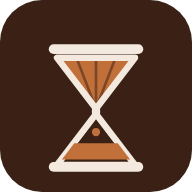
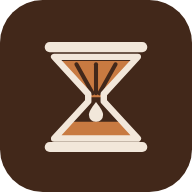
雫を作り直し、ロゴとアイコンを描き直し、ホームの帯を組み替える (#15)
雫
・尾を引く本物の形をベジエでなぞり、下ほど濃い縦のグラデーションと
  小さな照りを入れた。落下の筋は引かない
・1粒を大きくし、数を半分に。注ぎ口は1点に絞った。1粒ぶんの水位の
  上がりは2pxほどで、水面のうねりより小さいので跳ねては見えない

アイコン
・砂時計の輪郭の上半分をリブつきのドリッパー、下半分を溜まった
  コーヒーにし、くびれの下を一滴が落ちる形に描き直した
・元絵を icons/icon.svg として残す。マスクされる端末で欠けないよう、
  絵は内側9割に収めてある

ロゴ
・下の波をやめ、o の場所にコーヒー豆をひと粒はめた。溝は背景の色で彫る
・マージ番号をロゴの右下へ
・ロゴを画面の上へ寄せ、あいさつ・帯・見出しの間も詰めた

ホームの帯
・左は今日の杯数
・右は枠2つぶんを使って、ひと月ぶんの1日あたりの杯数の折れ線。線は
  1本きりなので凡例は置かず、数字は合計ひとつだけ。指でなぞると
  その日の日付と杯数が出る

Claude-Session: https://claude.ai/code/session_01AK1g5wZPx5s5VDHrQyhsVT

diff --git a/app.js b/app.js
@@ -19,11 +19,11 @@
  *   8. 起動
  * ==================================================================== */
 
-const APP_VERSION = "2.3.0";
+const APP_VERSION = "2.4.0";
 
 /* ホームのロゴの下に #002 の形で出す、mainへマージした回数。
    マージのたびに1つ増やす（この見た目になるまでに何回積んだか） */
-const MERGE_COUNT = 14;
+const MERGE_COUNT = 15;
 
 /* ------------------------------------------------------------------ *
  * 1. 下ごしらえ
@@ -725,7 +725,7 @@ function renderHome() {
     hour < 17 ? "Zeit für eine Pause." :
                 "Wie brühst du heute?";
 
-  renderStats($("home-stats"), liveBrews());
+  renderHomeStats($("home-stats"), liveBrews());
 
   const list = liveRecipes();
   const box = $("home-recipes");
@@ -772,6 +772,118 @@ function recipeCard(recipe, withEdit) {
   go.innerHTML = '<svg width="15" height="15" viewBox="0 0 24 24" fill="currentColor"><path d="M8 5v14l11-7z"/></svg>';
   card.appendChild(go);
   card.addEventListener("click", () => openTimer(recipe));
+  return card;
+}
+
+/* ---------- ホームの帯 ---------- *
+ *  左は今日の杯数。右は枠2つぶんを使って、ひと月ぶんの1日あたりの
+ *  杯数を折れ線で出す。線は1本きりなので凡例は要らない（何の線かは
+ *  カードの見出しが言っている）。点ごとに数を書くと読まれないので、
+ *  数字は見出しの合計ひとつだけにして、日ごとの数は指でなぞったとき
+ *  に出す。目盛りは0の一本だけ、細く、背景に沈めておく
+ * ------------------------------------------------------------------ */
+const TREND_DAYS = 30;
+const SPARK_H = 34;              // 折れ線の高さ（px）
+const SPARK_VB = 10;             // 折れ線のviewBoxの高さ
+const SPARK_PAD = 0.7;           // 上下の余白（viewBox単位）
+
+function renderHomeStats(box, list) {
+  box.innerHTML = "";
+  const midnight = new Date();
+  midnight.setHours(0, 0, 0, 0);
+
+  const today = list.filter((b) => b.brewedAt >= midnight.getTime()).length;
+  const left = el("div", "stat");
+  const n = el("div", "stat-num");
+  n.textContent = String(today);
+  n.appendChild(el("span", "small", today === 1 ? "cup" : "cups"));
+  left.appendChild(n);
+  left.appendChild(el("div", "stat-label", "brewed today"));
+  box.appendChild(left);
+
+  box.appendChild(monthTrend(list, midnight));
+}
+
+function monthTrend(list, midnight) {
+  const DAY = 86400000;
+  const counts = new Array(TREND_DAYS).fill(0);
+  const dayOf = (ms) => {
+    const d = new Date(ms);
+    d.setHours(0, 0, 0, 0);
+    /* 夏時間で1日が23時間や25時間になる国があるので、丸めて日数にする */
+    return Math.round((d.getTime() - midnight.getTime()) / DAY);
+  };
+  for (const b of list) {
+    const i = TREND_DAYS - 1 + dayOf(b.brewedAt);
+    if (i >= 0 && i < TREND_DAYS) counts[i]++;
+  }
+  const total = counts.reduce((a, c) => a + c, 0);
+  const peak = Math.max(1, ...counts);
+  const dateAt = (i) => new Date(midnight.getTime() - (TREND_DAYS - 1 - i) * DAY);
+
+  const card = el("div", "stat wide");
+  const head = el("div", "stat-head");
+  const n = el("div", "stat-num");
+  n.textContent = String(total);
+  n.appendChild(el("span", "small", total === 1 ? "cup" : "cups"));
+  head.appendChild(n);
+  const label = el("div", "stat-label", "last 30 days");
+  head.appendChild(label);
+  card.appendChild(head);
+
+  const yOf = (c) => SPARK_VB - SPARK_PAD - (c / peak) * (SPARK_VB - SPARK_PAD * 2);
+  const zero = yOf(0);
+  const pts = counts.map((c, i) => `${i} ${yOf(c).toFixed(2)}`);
+  const line = "M" + pts.join(" L");
+
+  const spark = el("div", "spark");
+  spark.innerHTML =
+    `<svg viewBox="0 0 ${TREND_DAYS - 1} ${SPARK_VB}" preserveAspectRatio="none" role="img"` +
+    ` aria-label="Cups brewed per day over the last 30 days. ${total} in total,` +
+    ` at most ${peak} in a day.">` +
+    `<path class="spark-area" d="${line} L${TREND_DAYS - 1} ${zero} L0 ${zero} Z"/>` +
+    `<line class="spark-zero" x1="0" y1="${zero}" x2="${TREND_DAYS - 1}" y2="${zero}"/>` +
+    `<path class="spark-line" d="${line}"/>` +
+    `</svg><span class="spark-dot"></span><span class="spark-cross" hidden></span>`;
+  const dot = spark.querySelector(".spark-dot");
+  const cross = spark.querySelector(".spark-cross");
+  const yPx = (i) => SPARK_H - yOf(counts[i]) * (SPARK_H / SPARK_VB);
+  const xPct = (i) => (i / (TREND_DAYS - 1)) * 100;
+  const place = (i) => {
+    dot.style.left = `calc(${xPct(i).toFixed(2)}% - 4px)`;
+    dot.style.bottom = `${yPx(i).toFixed(1)}px`;
+  };
+  place(TREND_DAYS - 1);
+  card.appendChild(spark);
+
+  /* なぞっているあいだ、その日の数を見出しの側に出す */
+  const at = (clientX) => {
+    const r = spark.getBoundingClientRect();
+    if (!r.width) return;
+    const t = Math.min(1, Math.max(0, (clientX - r.left) / r.width));
+    const i = Math.round(t * (TREND_DAYS - 1));
+    label.textContent = `${fmtDate(dateAt(i).getTime())} · ${plural(counts[i], "cup")}`;
+    label.classList.add("live");
+    place(i);
+    cross.hidden = false;
+    cross.style.left = `calc(${xPct(i).toFixed(2)}% - 0.5px)`;
+  };
+  const off = () => {
+    label.textContent = "last 30 days";
+    label.classList.remove("live");
+    place(TREND_DAYS - 1);
+    cross.hidden = true;
+  };
+  spark.addEventListener("pointerdown", (e) => {
+    spark.setPointerCapture(e.pointerId);
+    at(e.clientX);
+  });
+  spark.addEventListener("pointermove", (e) => {
+    if (e.pressure > 0 || e.pointerType === "mouse") at(e.clientX);
+  });
+  spark.addEventListener("pointerup", off);
+  spark.addEventListener("pointercancel", off);
+  spark.addEventListener("pointerleave", off);
   return card;
 }
 
@@ -906,11 +1018,11 @@ const brew = {
 const LEVEL_MAX = 0.92;        // 最後は画面の上のほうまで満ちる
 const DRIP_TAU = 13;           // 溜めた湯が落ちきるまでの目安（秒）。投の
                                //   頭はよく落ち、次の投までにはほぼ止まる
-const DROP_Q = 0.0012;         // 雫1つが上げる高さ。雫の見た目の面積を
-                               //   画面幅で割った値にほぼ等しく、水面が
-                               //   雫の体積ぶんだけ上がるようにしてある
+const DROP_Q = 0.0025;         // 雫1つが上げる高さ。1粒ぶんの上がり幅は
+                               //   2px ほどで、水面のうねりより小さい。
+                               //   ここを詰めすぎると数が増えて汚くなる
 const DROP_G = 1500;           // 雫の落下（px/s²）
-const DROP_MAX = 24;           // 同時に落ちる雫の数
+const DROP_MAX = 14;           // 同時に落ちる雫の数
 const BLOOM_HOLD = 4200;       // 1投目は粉が吸うぶん、落ち始めるまで間がある
 
 function splashPour() { /* 雫は溜まったぶんから自然に落ちる。合図は要らない */ }
@@ -938,6 +1050,31 @@ function surfaceAt(x, base, t, now) {
     y += Math.sin((d - front) / 22) * 7 * env;
   }
   return y;
+}
+
+/* 1粒の雫。下がふくらみ、上へ細く尾を引く本物の形をなぞる。
+   単色で塗ると染みになるので、下ほど濃い縦のグラデーションにし、
+   左上に小さな照りを置いて、水の玉らしく見せる */
+function drawDroplet(ctx, x, y, r, tail, accent) {
+  const top = y - r * tail;
+  ctx.beginPath();
+  ctx.moveTo(x, top);
+  ctx.bezierCurveTo(x - r * 0.26, top + r * tail * 0.5, x - r, y - r * 0.8, x - r, y);
+  ctx.arc(x, y, r, Math.PI, 0, true);          // ふくらんだ下半分
+  ctx.bezierCurveTo(x + r, y - r * 0.8, x + r * 0.26, top + r * tail * 0.5, x, top);
+  ctx.closePath();
+
+  const g = ctx.createLinearGradient(0, top, 0, y + r);
+  g.addColorStop(0, cssRgba(accent, 0.045));
+  g.addColorStop(0.5, cssRgba(accent, 0.15));
+  g.addColorStop(1, cssRgba(accent, 0.3));
+  ctx.fillStyle = g;
+  ctx.fill();
+
+  ctx.fillStyle = "rgba(255,255,255,0.6)";
+  ctx.beginPath();
+  ctx.ellipse(x - r * 0.33, y - r * 0.28, r * 0.19, r * 0.28, -0.5, 0, TAU);
+  ctx.fill();
 }
 
 function drawBrewBackground(now) {
@@ -986,10 +1123,11 @@ function drawBrewBackground(now) {
       brew.acc -= DROP_Q;
       brew.pending -= q;
       brew.drops.push({
-        x: w * 0.5 + (Math.random() - 0.5) * 26,
-        y: -16 - Math.random() * 44,
-        v: 40 + Math.random() * 60,
-        r: 5.6 + Math.random() * 2.6,
+        /* 注ぎ口は1点。ばらけさせると、垂れるというより降ってくる */
+        x: w * 0.5 + (Math.random() - 0.5) * 9,
+        y: -18 - Math.random() * 30,
+        v: 30 + Math.random() * 40,
+        r: 7.5 + Math.random() * 2,
         q,
       });
     }
@@ -1048,18 +1186,8 @@ function drawBrewBackground(now) {
       d.done = true;
       continue;
     }
-    /* 速いほど縦に伸びる。落下の筋も薄く引く */
-    const stretch = Math.min(2.6, 1 + d.v / 520);
-    ctx.strokeStyle = cssRgba(accent, 0.05);
-    ctx.lineWidth = d.r * 0.45;
-    ctx.beginPath();
-    ctx.moveTo(d.x, d.y - d.r * stretch * 2.2);
-    ctx.lineTo(d.x, d.y);
-    ctx.stroke();
-    ctx.fillStyle = cssRgba(accent, 0.24);
-    ctx.beginPath();
-    ctx.ellipse(d.x, d.y, d.r, d.r * stretch, 0, 0, TAU);
-    ctx.fill();
+    /* 速いほど尾が伸びる */
+    drawDroplet(ctx, d.x, d.y, d.r, Math.min(2.5, 1.15 + d.v / 900), accent);
   }
   brew.drops = brew.drops.filter((d) => !d.done);
 

diff --git a/styles.css b/styles.css
@@ -90,12 +90,19 @@ input,select,textarea{font-family:inherit;}
   padding:calc(14px + env(safe-area-inset-top)) 16px 10px;
   position:sticky;top:0;background:var(--bg);z-index:10;
 }
-.appbar-home{justify-content:flex-end;}
+.appbar-home{justify-content:flex-end;padding-top:calc(8px + env(safe-area-inset-top));padding-bottom:0;}
 .brand{display:flex;flex-direction:column;align-items:center;gap:2px;background:none;border:none;padding:0;line-height:1;}
-.logo-word{display:flex;letter-spacing:.005em;font-family:var(--font-ui);font-weight:400;}
+.logo-word{
+  display:inline-flex;align-items:baseline;position:relative;
+  letter-spacing:.005em;font-family:var(--font-ui);font-weight:400;
+}
 .logo-cof{color:var(--ink);}
 .logo-rence{color:var(--accent);}
-.logo-wave{color:var(--accent);display:block;}
+/* o の場所にコーヒー豆を置く。溝は背景と同じ色で彫る */
+.logo-bean{
+  width:.74em;height:.74em;color:var(--accent);
+  align-self:center;position:relative;top:.03em;flex-shrink:0;
+}
 .appbar .logo-word{font-size:18px;}
 .screen-title{font-size:19px;}
 .nav-icons{display:flex;gap:6px;align-items:center;}
@@ -114,23 +121,24 @@ input,select,textarea{font-family:inherit;}
 .text-btn:active{opacity:.6;}
 
 /* ---------- ホームのロゴ ---------- *
- *  EnGoloyd と同じ組み立て。前半をインクの色、後半をアクセントに置き、
- *  その下に一本の波を引く。波の下の #002 は、この見た目になるまでに
- *  main へ何回マージしたかの数（app.js の MERGE_COUNT）
+ *  名前はコーヒーとコヒーレンスの重ね。前半をインクの色、後半を
+ *  アクセントに置き、o の場所には豆をひと粒はめる。右下の #002 は、
+ *  この見た目になるまでに main へ何回マージしたかの数
+ *  （app.js の MERGE_COUNT）
  * ------------------------------------------------------------------ */
-.home-logo{display:flex;flex-direction:column;align-items:center;gap:6px;margin:14px 0 22px;}
+.home-logo{display:flex;justify-content:center;margin:0 0 10px;}
 .home-logo .logo-word{font-size:36px;}
-.home-logo .logo-wave{width:132px;height:14px;margin-top:2px;}
 .build-tag{
+  position:absolute;left:100%;bottom:3px;margin-left:5px;
   font-size:10.5px;color:var(--ink-faint);font-family:var(--font-mono);
   opacity:.65;user-select:none;letter-spacing:.06em;
 }
 
 /* ---------- ホーム ---------- */
 .greeting{
-  font-family:var(--font-ui);font-size:21px;margin:6px 0 16px;color:var(--ink);letter-spacing:.02em;
+  font-family:var(--font-ui);font-size:21px;margin:2px 0 14px;color:var(--ink);letter-spacing:.02em;
 }
-.stat-strip{display:flex;gap:8px;margin-bottom:20px;}
+.stat-strip{display:flex;gap:8px;margin-bottom:18px;}
 .stat{
   flex:1;background:var(--surface);border:1px solid var(--line);border-radius:14px;
   padding:10px 8px;text-align:center;
@@ -139,7 +147,34 @@ input,select,textarea{font-family:inherit;}
 .stat-num .small{font-size:11px;color:var(--ink-faint);margin-left:4px;}
 .stat-label{font-size:10px;color:var(--ink-faint);margin-top:3px;font-family:var(--font-ui);}
 
-.section-head{display:flex;align-items:baseline;justify-content:space-between;margin:22px 0 10px;}
+/* ---------- ホームの帯（今日の杯数と、ひと月の折れ線） ---------- *
+ *  線は1本きり。何の線かはカードの見出しが言っているので、凡例の
+ *  箱は置かない。数字も点ごとには書かず、合計ひとつだけ添える
+ * ------------------------------------------------------------------ */
+.stat-strip.home .stat{text-align:left;padding:9px 11px 9px 12px;}
+.stat-strip.home .stat.wide{flex:2;display:flex;flex-direction:column;}
+.stat-head{display:flex;align-items:baseline;justify-content:space-between;gap:8px;}
+.stat-head .stat-label{margin-top:0;text-align:right;white-space:nowrap;}
+.stat-head .stat-label.live{color:var(--ink-soft);}
+.spark{position:relative;margin-top:5px;height:34px;}
+.spark svg{display:block;width:100%;height:34px;overflow:visible;}
+.spark-area{fill:var(--accent);opacity:.1;}
+.spark-line{
+  fill:none;stroke:var(--accent);stroke-width:2;
+  stroke-linejoin:round;stroke-linecap:round;vector-effect:non-scaling-stroke;
+}
+.spark-zero{stroke:var(--line);stroke-width:1;vector-effect:non-scaling-stroke;}
+.spark-dot{
+  position:absolute;width:8px;height:8px;border-radius:50%;
+  background:var(--accent);box-shadow:0 0 0 2px var(--surface);
+  transform:translateY(50%);pointer-events:none;
+}
+.spark-cross{
+  position:absolute;top:-2px;bottom:-2px;width:1px;
+  background:var(--line);pointer-events:none;
+}
+
+.section-head{display:flex;align-items:baseline;justify-content:space-between;margin:18px 0 10px;}
 .section-head h2{font-size:15px;color:var(--ink-soft);font-weight:400;letter-spacing:.04em;}
 
 /* ---------- レシピカード ---------- */

diff --git a/index.html b/index.html
@@ -26,12 +26,10 @@
 
     <div class="scroll-area">
       <div class="home-logo">
-        <span class="logo-word"><span class="logo-cof">Coffee</span><span class="logo-rence">rence</span></span>
-        <svg class="logo-wave" viewBox="0 0 230 46" aria-hidden="true"><path d="M10 24 Q 40 2, 70 24 T 130 24 T 190 24" stroke="currentColor" stroke-width="14" stroke-linecap="round" fill="none"/></svg>
-        <span class="build-tag" id="build-tag">#000</span>
+        <span class="logo-word"><span class="logo-cof">C</span><svg class="logo-bean" viewBox="0 0 40 40" aria-hidden="true"><g transform="rotate(-72 20 20)"><ellipse cx="20" cy="20" rx="18" ry="13.5" fill="currentColor"/><path d="M4.5 20 C 10 13, 13 27, 20 20 S 30 13, 35.5 20" fill="none" stroke="var(--bg)" stroke-width="4.2" stroke-linecap="round"/></g></svg><span class="logo-cof">ffee</span><span class="logo-rence">rence</span><span class="build-tag" id="build-tag">#000</span></span>
       </div>
       <p class="greeting" id="greeting" lang="de">Wie brühst du heute?</p>
-      <div class="stat-strip" id="home-stats"></div>
+      <div class="stat-strip home" id="home-stats"></div>
 
       <div class="section-head">
         <h2>Choose a recipe</h2>

diff --git a/sw.js b/sw.js
@@ -1,7 +1,7 @@
 /* 台所で使うアプリなので、電波が届かない場所でも開けるようにしておく。
    ただし更新に気づかないのは困るので、オンラインならネットワークを
    先に見て、落ちたときだけキャッシュを返す */
-const CACHE = "coffeerence-shell-v13";
+const CACHE = "coffeerence-shell-v14";
 const SHELL = [
   "./index.html",
   "./styles.css",
